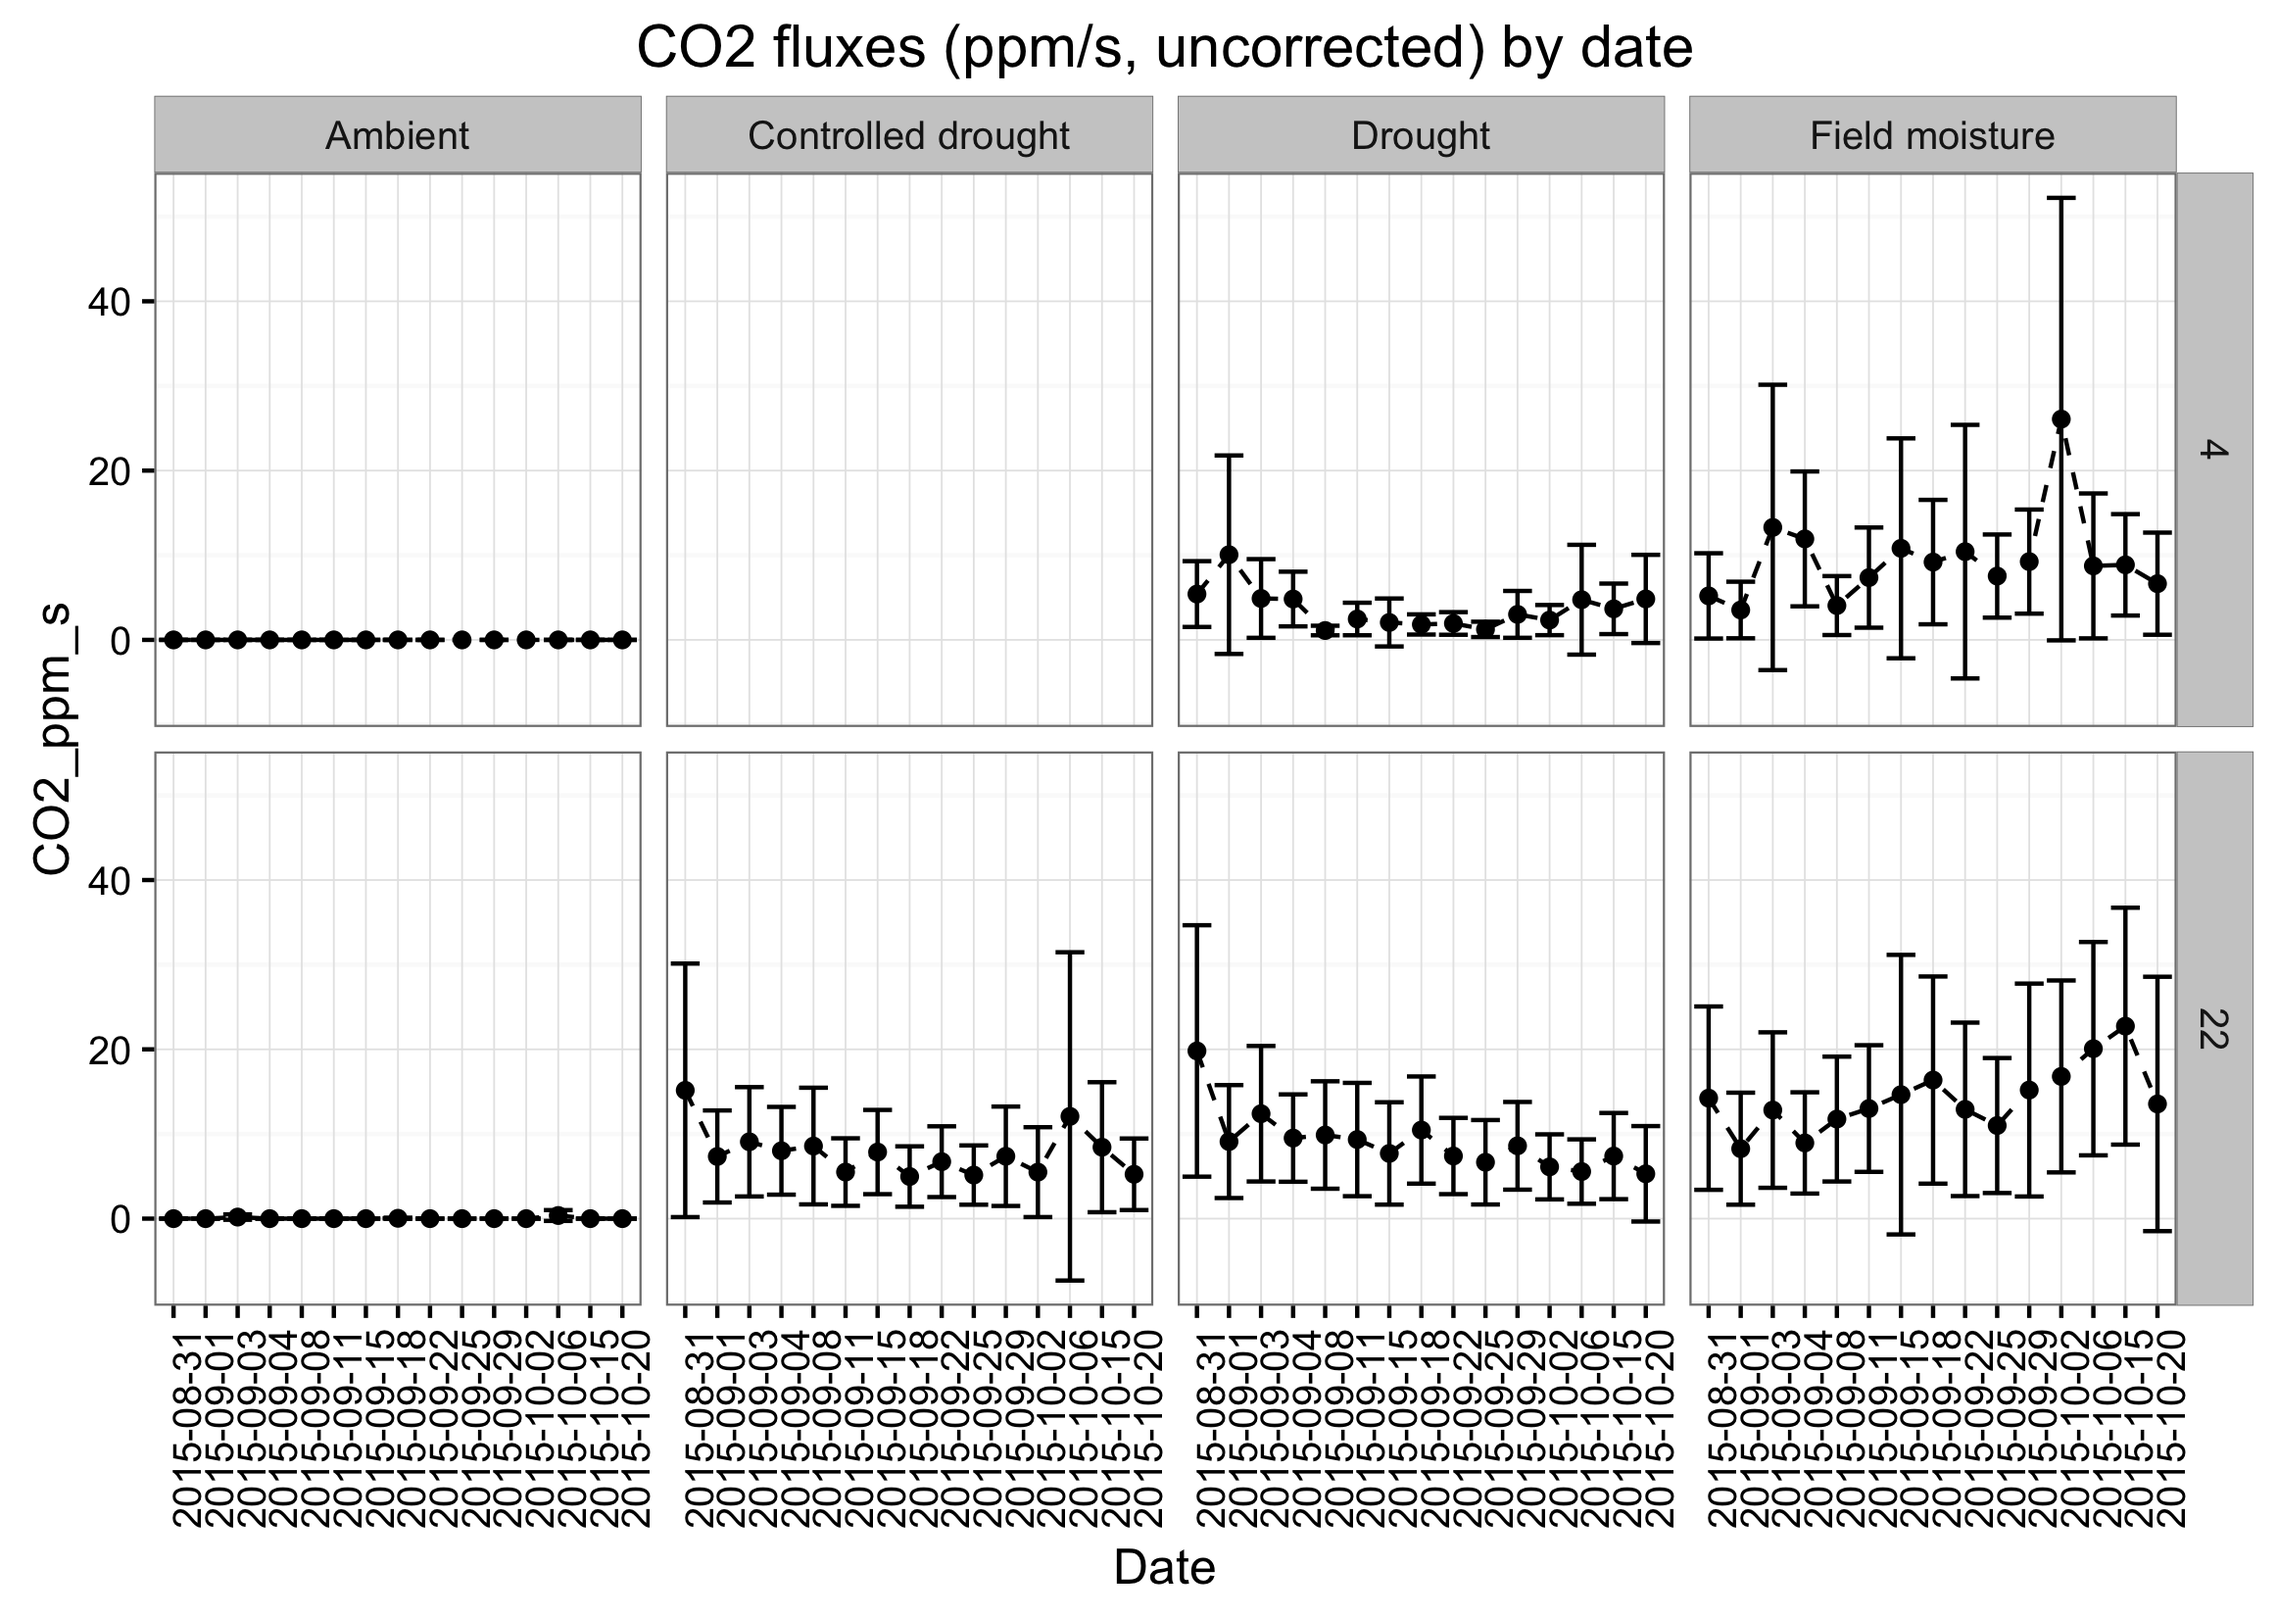
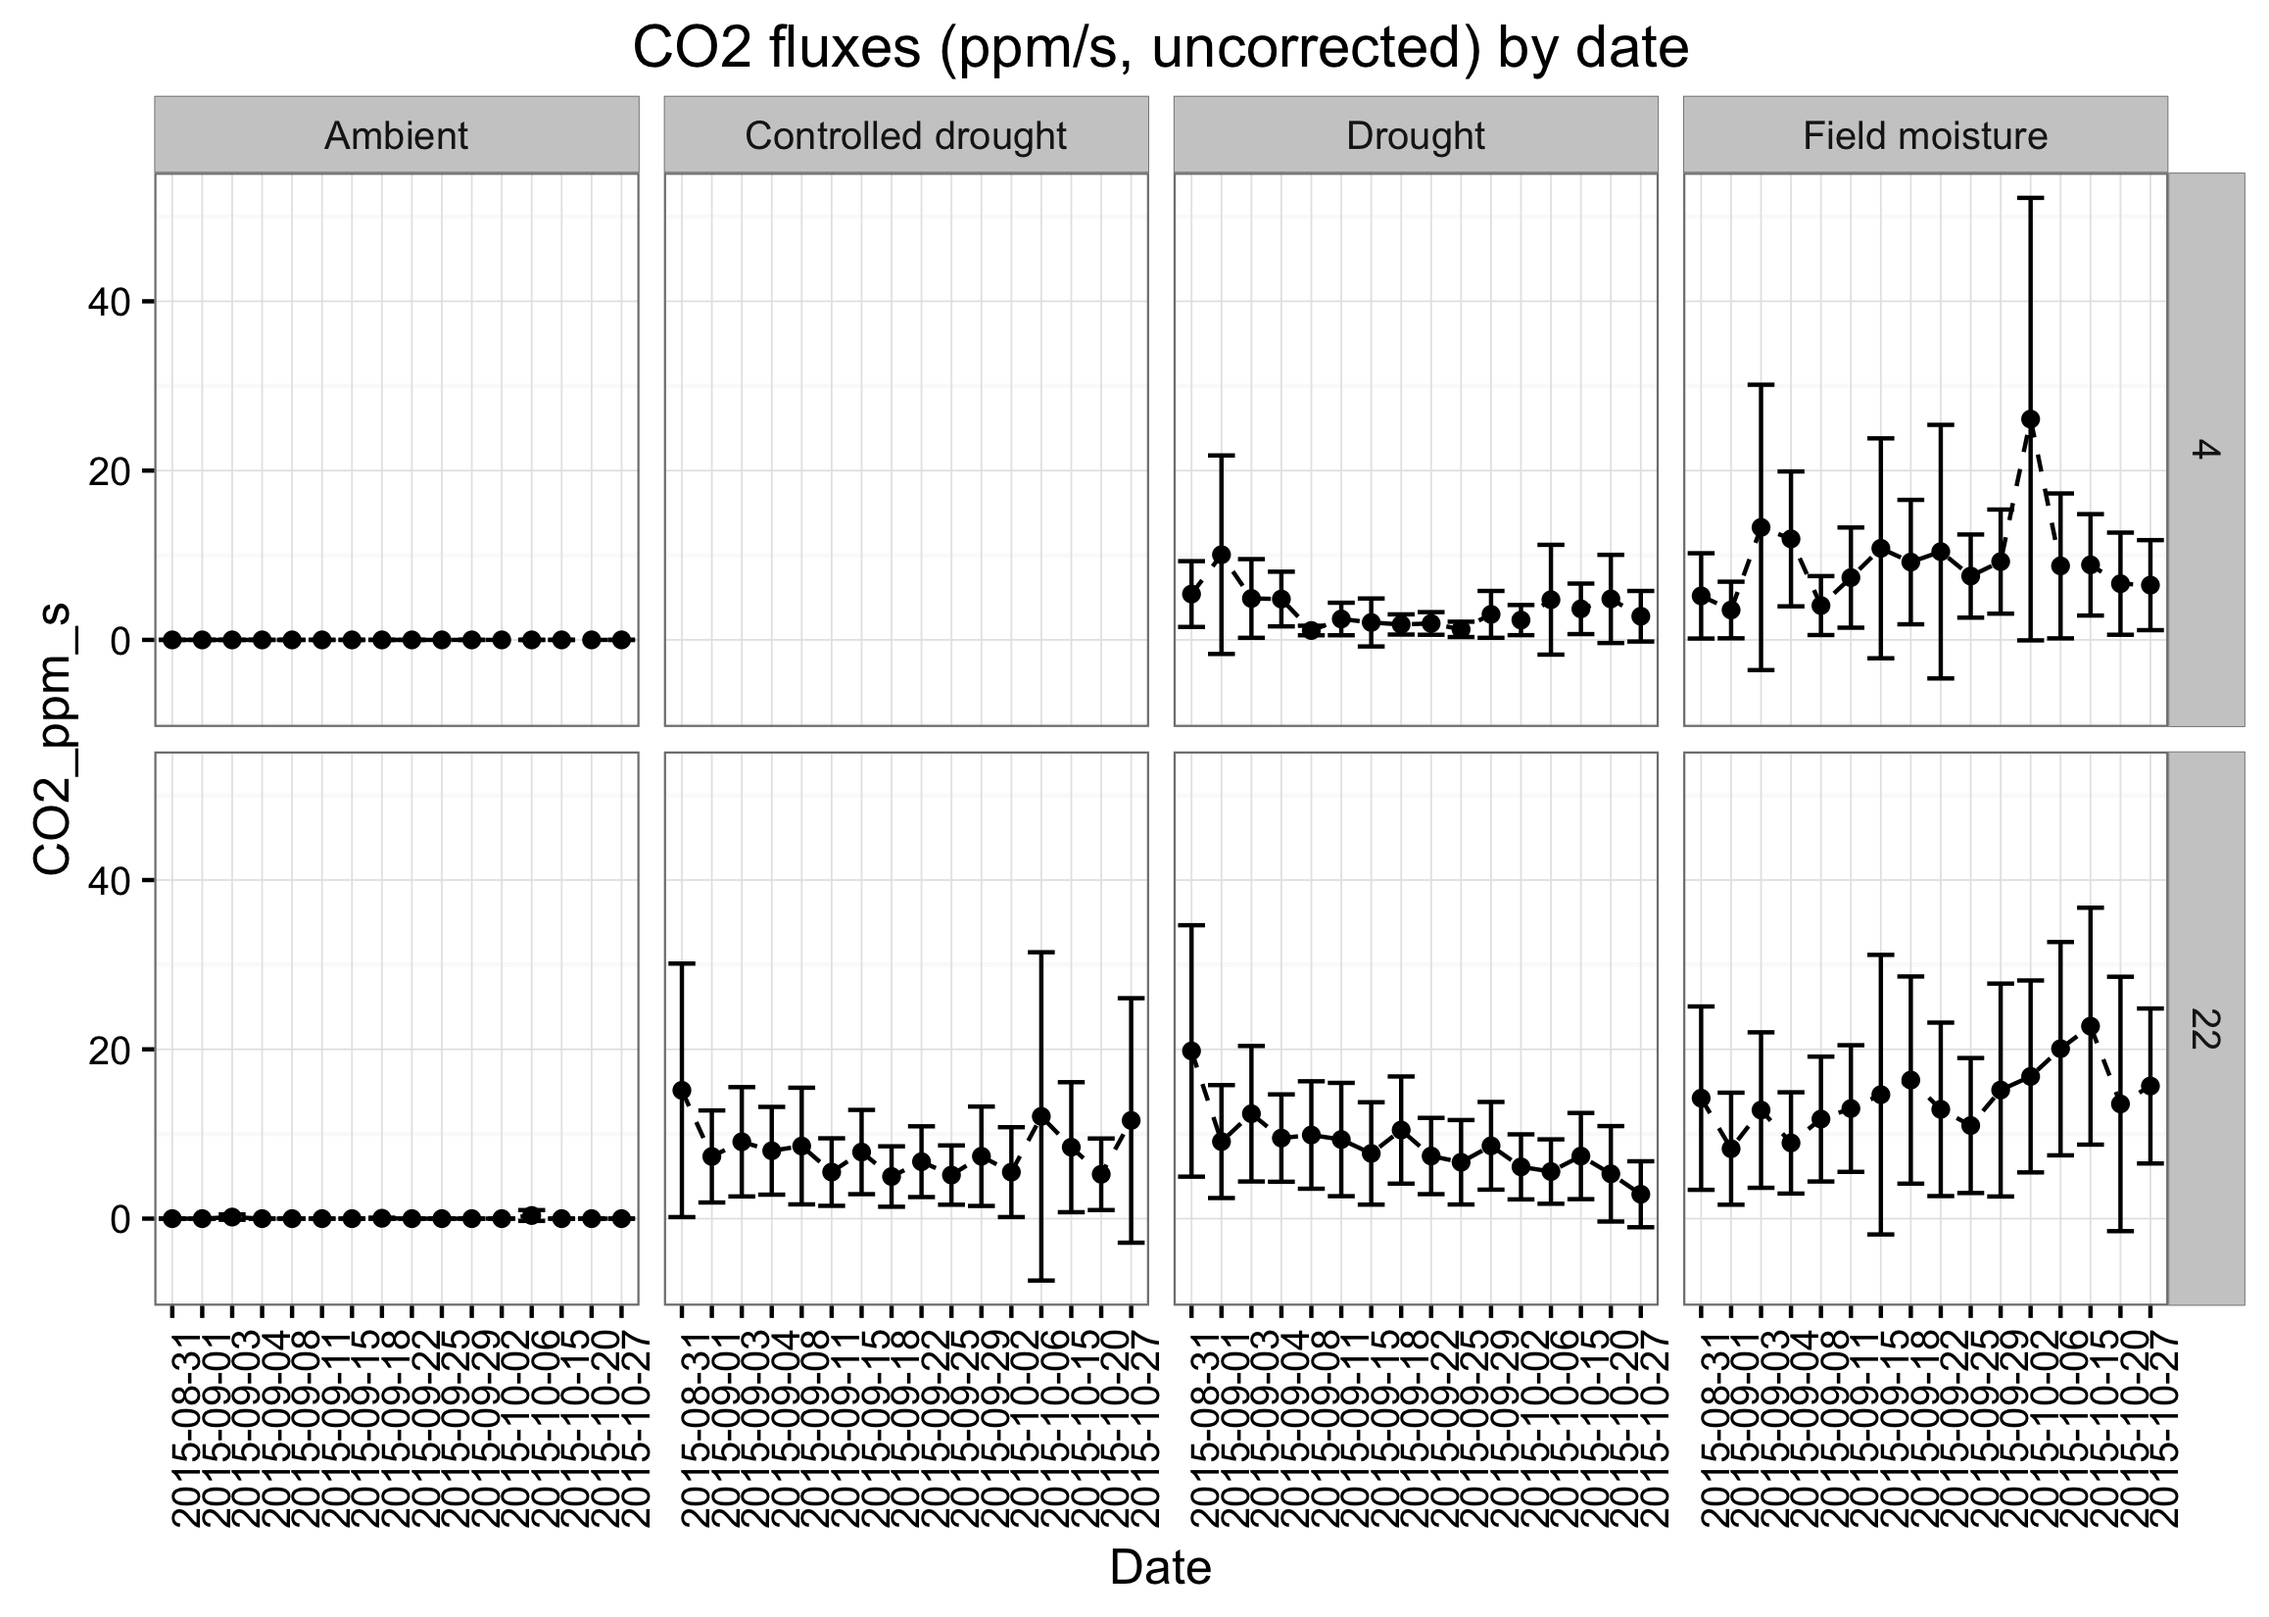
Diagnostics update
Also added samplenum 1059 to `removals.cv`.

diff --git a/README.md b/README.md
@@ -8,9 +8,9 @@ This work is funded by DOE's [Terrestrial Ecosystem Science Program](http://tes.
 
 ## Current diagnostics
 
-Latest data: 2015-10-20 (incubation day 51)
+Latest data: 2015-10-27 (incubation day 58)
 
-Script run: 2015-10-26 19:56:55
+Script run: 2015-10-30 12:52:21
 
 ### Missing/problematic data
 
